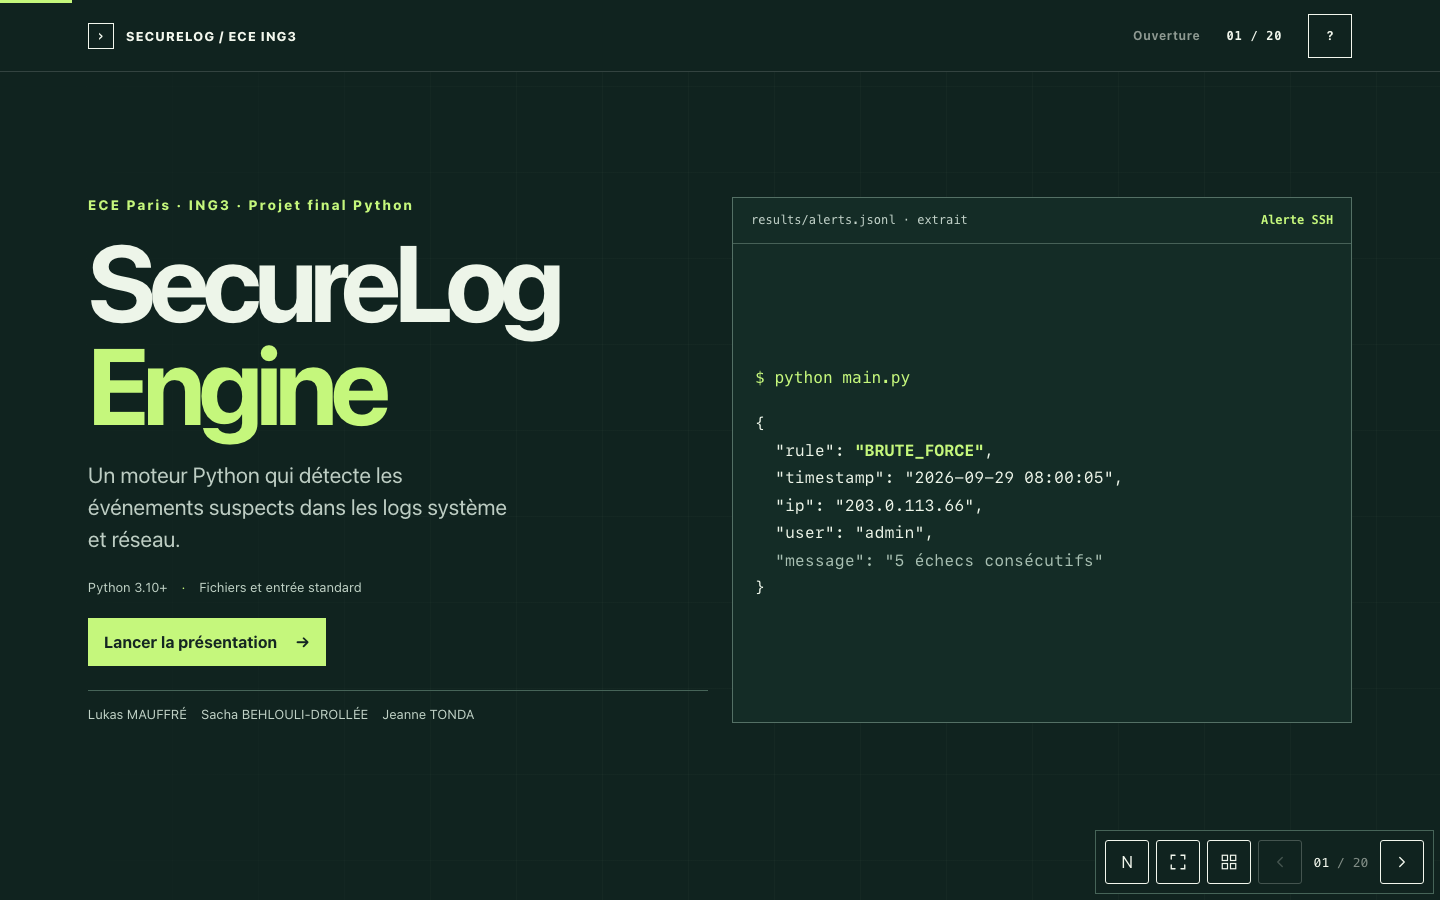
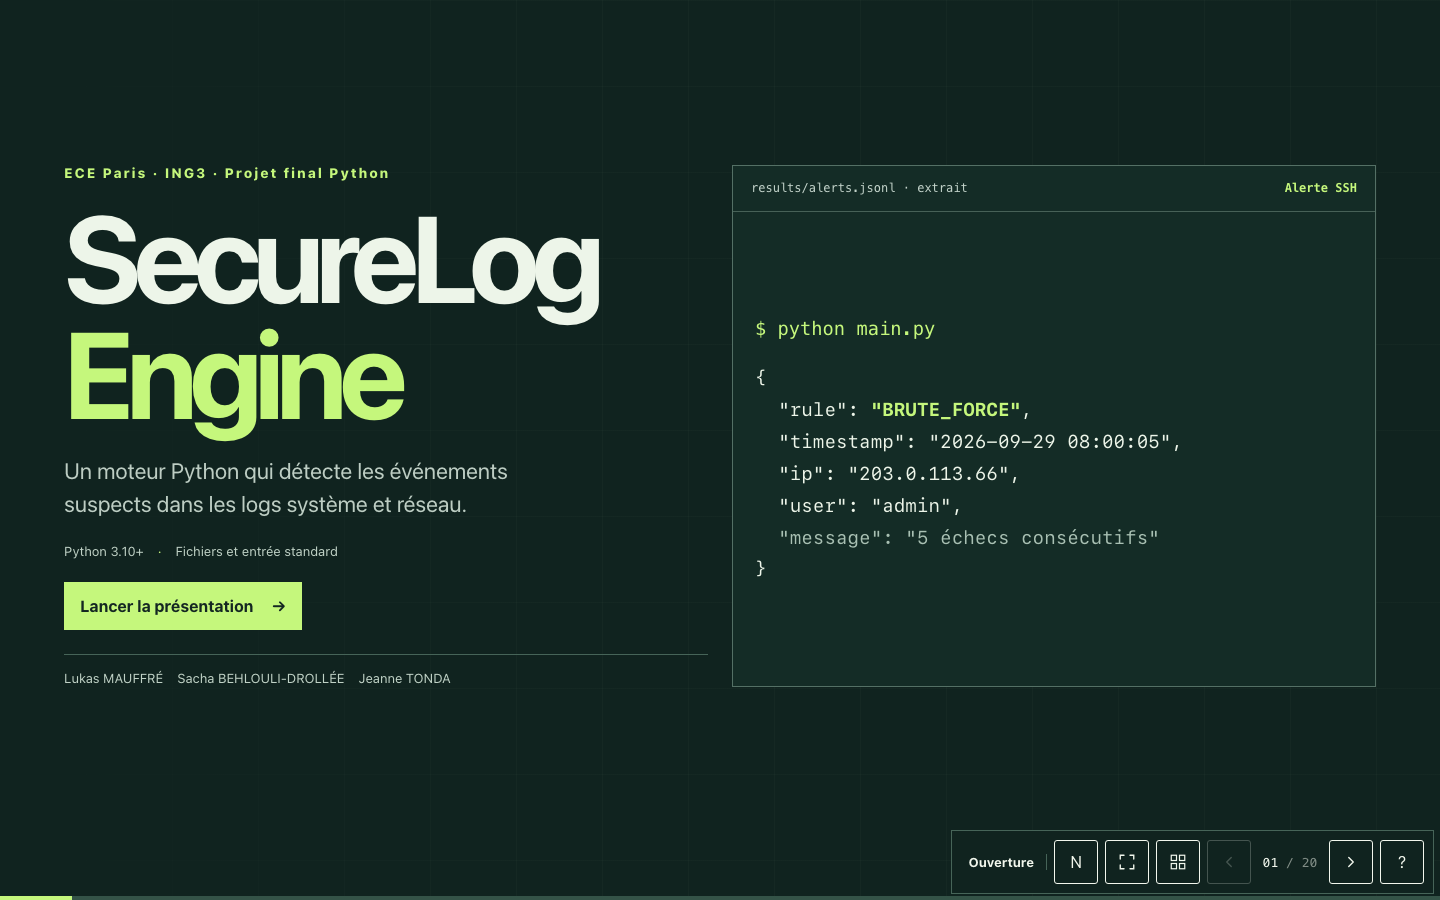
style: scale slide content for projection

diff --git a/index.html b/index.html
@@ -6,7 +6,7 @@
 <title>SecureLog Engine · Présentation ING3</title>
 <script>document.documentElement.classList.add('m-enter');</script>
 <style>
-:root{--paper:#f3f4ef;--ink:#142622;--muted:#52665c;--line:#cbd5cc;--surface:#e5ece4;--night:#10231f;--panel:#142c26;--lime:#c5f77c;--lime-deep:#497230;--danger:#dc674c;--blue:#5488a0;--gold:#d5a34b;--orange:#e18c68;--dock-clearance:84px;--gutter:clamp(30px,6.1vw,104px);--curve:cubic-bezier(.2,.8,.2,1)}
+:root{--paper:#f3f4ef;--ink:#142622;--muted:#52665c;--line:#cbd5cc;--surface:#e5ece4;--night:#10231f;--panel:#142c26;--lime:#c5f77c;--lime-deep:#497230;--danger:#dc674c;--blue:#5488a0;--gold:#d5a34b;--orange:#e18c68;--dock-clearance:84px;--gutter:clamp(30px,4.45vw,72px);--curve:cubic-bezier(.2,.8,.2,1)}
 *{box-sizing:border-box} html,body{height:100%;margin:0} html{scroll-behavior:auto} body{font-family:-apple-system,BlinkMacSystemFont,"Helvetica Neue",Arial,sans-serif;color:var(--ink);background:var(--paper);overflow:hidden; -webkit-font-smoothing:antialiased}button,a{font:inherit} button{cursor:pointer} a{color:inherit} code,pre,.mono{font-family:ui-monospace,SFMono-Regular,Menlo,Monaco,Consolas,monospace} .app{height:100vh;height:100dvh;position:relative;overflow:hidden}
 .progress {
   position: fixed;
@@ -204,27 +204,28 @@
 .challenge .solution,.roadmap-layout span,.output-card pre,.result-terminal pre{font-size:clamp(13px,1.04vw,16px)}
 .demo-terminal{font-size:clamp(12px,1.05vw,15px);line-height:1.72}
 .demo-count,.demo-alert-block p,.demo-head{font-size:clamp(13px,1vw,15px)}
-.demo-alert-block>span ,
+.demo-alert-block>span{font-size:12px}
 .closing-lower p{font-size:15px}
-/* Panels follow their content instead of stretching to occupy the whole slide. */
-@media(min-width:1000px){
- .two-mode,.pipeline,.arch-layout,.func-columns,.rules-stage,.brute-panel,.result-layout,.output-grid,.memory-layout,.challenge-grid,.roadmap-layout{flex:0 1 auto}
- .arch-layout{max-height:460px}
- .two-mode{max-height:465px}
- .mode-icon{height:88px}
- .mode-card{padding:clamp(24px,2.65vw,38px)}
- .func-columns{max-height:425px}
- .func-code{min-height:158px;margin:22px 0 15px}
- .rules-stage{max-height:450px}
- .brute-panel{max-height:340px;min-height:315px}
- .identity-row{padding:16px 0}
- .result-layout{max-height:365px}
- .output-grid{max-height:445px}
- .output-card p{min-height:72px}
- .memory-layout{max-height:465px}
- .challenge-grid{max-height:445px}
- .roadmap-layout{max-height:440px}
- .limitations>div:not(:first-child),.improvements>div:not(:first-child){flex:none;padding:12px 0}
+/* Use the height recovered from the header for the diagrams and examples. */
+@media (min-width: 1000px) {
+  .two-mode, .pipeline, .arch-layout, .func-columns, .rules-stage,
+  .brute-panel, .result-layout, .output-grid, .memory-layout,
+  .challenge-grid, .roadmap-layout {
+    flex: 1 0 auto;
+    max-height: min(56vh, 540px);
+  }
+  .pipeline { max-height: min(46vh, 420px); }
+  .mode-icon { height: 88px; }
+  .mode-card { padding: clamp(24px, 2.65vw, 38px); }
+  .mode-card p, .func-card p { font-size: clamp(17px, 1.4vw, 21px); }
+  .func-code { min-height: 158px; margin: 22px 0 15px; }
+  .identity-row { padding: 16px 0; }
+  .brute-panel { max-height: min(48vh, 430px); }
+  .output-card p { min-height: 72px; }
+  .limitations > div:not(:first-child), .improvements > div:not(:first-child) {
+    flex: 1;
+    padding: 12px 0;
+  }
 }
 /* Terminal replay layout and motion. */
 .demo-stage{flex:0 1 auto}
@@ -274,28 +275,34 @@
    when the browser targets a slide hash on a narrow display. Each slide
    itself remains vertically scrollable. */
 .app { overflow: clip; }
-/* Keep the original single palette and grid, but allow a second optical
-   rhythm for slides with short content. Auto margins distribute only truly
-   available space. When a screen is short, they collapse to zero so nothing
-   is cut off from the top. */
-@media (min-width: 1000px) {
-  :is(#slide-3,#slide-4,#slide-5,#slide-8,#slide-11,#slide-12,#slide-13,#slide-14,#slide-15,#slide-17,#slide-18,#slide-19)
-    .slide-inner > :first-child:not(.notes-text) { margin-top: auto; }
-  :is(#slide-3,#slide-4,#slide-5,#slide-8,#slide-11,#slide-12,#slide-13,#slide-14,#slide-15,#slide-17,#slide-18,#slide-19)
-    .slide-inner > :nth-last-child(2) { margin-bottom: auto; }
-}
-/* The code / process sequence gains enough substance to sit comfortably,
-   without filling the full height of a slide. Code stays readable at rest. */
-@media (min-width: 1200px) and (min-height: 780px) {
-  #slide-8 .func-columns { min-height: 352px; max-height: 365px; }
-  #slide-8 .func-card { padding: 25px 25px 23px; }
-  #slide-8 .func-code { margin: 20px 0 14px; padding: 18px 17px; }
-  #slide-8 .func-card p { font-size: 17px; line-height: 1.52; }
-  #slide-11 .rules-stage { min-height: 352px; max-height: 385px; }
-  #slide-14 .result-layout { min-height: 346px; max-height: 376px; }
-  #slide-19 .limitations > div:not(:first-child),
-  #slide-19 .improvements > div:not(:first-child) { padding: 15px 0; }
-  #slide-19 .roadmap-layout span { font-size: 16px; line-height: 1.45; }
+/* Use larger type and illustrations on projection screens with room to spare. */
+@media (min-width: 1100px) and (min-height: 780px) {
+  .cover-title { font-size: clamp(94px, 8.5vw, 160px); }
+  .term-content { font-size: clamp(16px, 1.3vw, 22px); }
+  .filetree, .syntax, .format-box pre, .func-code, .output-card pre,
+  .result-terminal pre, .demo-terminal { font-size: clamp(16px, 1.2vw, 21px); }
+  .module-list b, .rules-grid b, .test-matrix b { font-size: clamp(19px, 1.55vw, 25px); }
+  .module-list p, .rules-grid p, .test-matrix small { font-size: clamp(15px, 1.18vw, 20px); }
+  .pipe-step { padding: clamp(18px, 1.8vw, 28px); }
+  .pipe-step h3 { font-size: clamp(25px, 2.5vw, 38px); }
+  .pipe-step p { font-size: clamp(16px, 1.25vw, 20px); }
+  .format-box, .structure-box { flex: 1; align-content: center; }
+  .chart-panel { padding: 36px; }
+  .bar-row { margin-block: 28px; }
+  .bar-row > div { height: 24px; }
+  .venn-container svg { max-height: 390px; }
+  .loop-footer span, .roadmap-layout span { font-size: clamp(15px, 1.18vw, 20px); }
+  .mem-columns { min-height: 245px; }
+  .slide .intro, .slide .lead { font-size: clamp(19px, 1.55vw, 26px); }
+  .slide .cover-copy .lead { max-width: 34ch; }
+  .slide .command, .slide .pipe-file { font-size: clamp(15px, 1.15vw, 19px); }
+  .func-code { flex: 1; align-content: center; }
+  .identity-row { flex: 1; }
+  .ident-user, .attempts > span { font-size: 27px; }
+  .attempts > span { width: 58px; height: 58px; }
+  .result-bar { margin-block: 26px; }
+  .result-bar label { font-size: 16px; }
+  .validation-layout .mega-test { margin-top: 18px; }
 }
 /* Projection legibility: keep the smaller *content* type clear; do not grow
    the main headlines so much they overwhelm the evidence on the slide. */
@@ -334,15 +341,6 @@
   #slide-20 .closing-lower { margin-top: 25px; padding-top: 16px; }
   #slide-20 .closing-bottom { margin-top: 21px; }
 }
-@media print {
-  /* Print renders full slides even though in the live experience the overall
-     group is optically centered. Disable auto margins for deterministic PDF. */
-  :is(#slide-3,#slide-4,#slide-5,#slide-8,#slide-11,#slide-12,#slide-13,#slide-14,#slide-15,#slide-17,#slide-18,#slide-19)
-    .slide-inner > :first-child:not(.notes-text) { margin-top: 0; }
-  :is(#slide-3,#slide-4,#slide-5,#slide-8,#slide-11,#slide-12,#slide-13,#slide-14,#slide-15,#slide-17,#slide-18,#slide-19)
-    .slide-inner > :nth-last-child(2) { margin-bottom: 0; }
-}
-
 /* Shared deck controls and responsive cover. */
 .skip-link {
   position: fixed;
@@ -369,7 +367,7 @@
 .navbar { background: var(--paper); }
 .dark-context .navbar { background: var(--night); }
 .dark-context .navbar { border-color: #466458; }
-.slide-inner { max-width: 1320px; }
+.slide-inner { max-width: 1600px; }
 :where(.cover-grid, .split, .arch-layout, .stats-layout, .demo-body, .rules-stage) > * { min-width: 0; }
 :where(pre, .dictionary) { overflow-wrap: anywhere; }
 @media (hover: hover) and (pointer: fine) {
@@ -395,7 +393,7 @@ html[data-motion] :is(.primary-action, button:not(:disabled)):active { transform
   .term-content .command-line { margin-bottom: 8px; }
 }
 @media (max-width: 560px) {
-  :root { --dock-clearance: 130px; }
+  :root { --dock-clearance: 120px; }
   .navbar {
     grid-template-areas: "chapter help" "actions actions";
     grid-template-columns: 1fr auto;
@@ -440,6 +438,11 @@ html[data-motion] :is(.primary-action, button:not(:disabled)):active { transform
 }
 @media print {
   .skip-link, .primary-action { display: none; }
+}
+
+@media (min-width: 1000px) {
+  .demo-stage { flex: 1 0 auto; max-height: min(58vh, 545px); }
+  .demo-stage .demo-terminal { max-height: none; }
 }
 
 /* Presenter-led replay, with a readable static summary for print. */
@@ -542,8 +545,9 @@ html[data-motion] :is(.primary-action, button:not(:disabled)):active { transform
 <body class="app" id="top">
 <!-- Soutenance logiciel : vert terminal, typographie système, grille scindée.
      Moments guidés : trajet d’un log et révélation de l’alerte, sans lecture automatique. -->
+<main id="deck" tabindex="-1">
 <a class="skip-link" href="#deck">Aller à la diapositive</a>
-<main id="deck" tabindex="-1"><section class="slide hero dark is-active" id="slide-1" data-enter data-title="SecureLog Engine" data-chapter="Ouverture" aria-label="Diapositive 1: SecureLog Engine"><div class="slide-inner wrap">
+<section class="slide hero dark is-active" id="slide-1" data-enter data-title="SecureLog Engine" data-chapter="Ouverture" aria-label="Diapositive 1: SecureLog Engine"><div class="slide-inner wrap">
 <div class="cover-grid hero-text grid">
   <div class="cover-copy hero__text">
     <p class="eyebrow">ECE Paris · ING3 · Projet final Python</p>
@@ -802,10 +806,11 @@ Alertes : BLACKLIST 12
 <div class="notes-text" hidden>Terminez sur les compétences Python démontrées et la différence entre ce moteur pédagogique et une plateforme de surveillance complète. Les livrables demandés sont bien ceux de l’énoncé. Invitez aux questions.</div></div></section></main>
 <nav class="navbar actionbar" aria-label="Navigation des diapositives">
   <span class="nav-chapter" id="nav-chapter">Ouverture</span>
-  <button class="nav-btn" id="help-trigger" type="button" aria-haspopup="dialog" aria-controls="help" aria-label="Afficher les raccourcis">?</button>
   <div class="progress" id="progress" aria-hidden="true"></div>
   <span class="sr-only" id="slide-announcement" role="status"></span>
-  <div class="nav-actions"><button class="nav-btn" id="notes-trigger" type="button" aria-expanded="false" aria-controls="speaker-notes" title="Notes du présentateur" aria-label="Notes du présentateur">N</button><button class="nav-btn" id="fullscreen-trigger" type="button" aria-pressed="false" title="Plein écran" aria-label="Basculer en plein écran"><svg viewBox="0 0 24 24" fill="none" stroke="currentColor" stroke-width="1.8" stroke-linecap="round" aria-hidden="true"><path d="M8 3H3v5M16 3h5v5M3 16v5h5M21 16v5h-5"/></svg></button><button class="nav-btn" id="overview-trigger" type="button" aria-haspopup="dialog" aria-controls="overview" title="Sommaire" aria-label="Sommaire"><svg viewBox="0 0 24 24" fill="none" stroke="currentColor" stroke-width="1.6" aria-hidden="true"><rect x="3" y="3" width="7" height="7"/><rect x="14" y="3" width="7" height="7"/><rect x="3" y="14" width="7" height="7"/><rect x="14" y="14" width="7" height="7"/></svg></button><button class="nav-btn" id="prev" type="button" title="Diapositive précédente" aria-label="Précédente"><svg viewBox="0 0 24 24" fill="none" stroke="currentColor" stroke-width="1.8" stroke-linecap="round" stroke-linejoin="round" aria-hidden="true"><path d="m15 18-6-6 6-6"/></svg></button><span class="nav-current" id="nav-current">01 <span>/ 20</span></span><button class="nav-btn" id="next" type="button" title="Diapositive suivante" aria-label="Suivante"><svg viewBox="0 0 24 24" fill="none" stroke="currentColor" stroke-width="1.8" stroke-linecap="round" stroke-linejoin="round" aria-hidden="true"><path d="m9 18 6-6-6-6"/></svg></button></div></nav>
+  <div class="nav-actions"><button class="nav-btn" id="notes-trigger" type="button" aria-expanded="false" aria-controls="speaker-notes" title="Notes du présentateur" aria-label="Notes du présentateur">N</button><button class="nav-btn" id="fullscreen-trigger" type="button" aria-pressed="false" title="Plein écran" aria-label="Basculer en plein écran"><svg viewBox="0 0 24 24" fill="none" stroke="currentColor" stroke-width="1.8" stroke-linecap="round" aria-hidden="true"><path d="M8 3H3v5M16 3h5v5M3 16v5h5M21 16v5h-5"/></svg></button><button class="nav-btn" id="overview-trigger" type="button" aria-haspopup="dialog" aria-controls="overview" title="Sommaire" aria-label="Sommaire"><svg viewBox="0 0 24 24" fill="none" stroke="currentColor" stroke-width="1.6" aria-hidden="true"><rect x="3" y="3" width="7" height="7"/><rect x="14" y="3" width="7" height="7"/><rect x="3" y="14" width="7" height="7"/><rect x="14" y="14" width="7" height="7"/></svg></button><button class="nav-btn" id="prev" type="button" title="Diapositive précédente" aria-label="Précédente"><svg viewBox="0 0 24 24" fill="none" stroke="currentColor" stroke-width="1.8" stroke-linecap="round" stroke-linejoin="round" aria-hidden="true"><path d="m15 18-6-6 6-6"/></svg></button><span class="nav-current" id="nav-current">01 <span>/ 20</span></span><button class="nav-btn" id="next" type="button" title="Diapositive suivante" aria-label="Suivante"><svg viewBox="0 0 24 24" fill="none" stroke="currentColor" stroke-width="1.8" stroke-linecap="round" stroke-linejoin="round" aria-hidden="true"><path d="m9 18 6-6-6-6"/></svg></button></div>
+  <button class="nav-btn" id="help-trigger" type="button" aria-haspopup="dialog" aria-controls="help" aria-label="Afficher les raccourcis">?</button>
+</nav>
 <dialog class="overview" id="overview" aria-labelledby="overview-heading"><div class="overlay-header"><h2 id="overview-heading">Sommaire des 20 diapositives</h2><button type="button" class="overlay-close" id="overview-close">Fermer ×</button></div><div class="overview-grid" id="overview-grid"></div></dialog>
 <dialog class="help" id="help" aria-labelledby="help-heading"><div class="help-card"><h2 id="help-heading">Commandes de présentation</h2><div class="shortcut-row"><span>Étape suivante ou diapositive suivante</span><span><kbd>→</kbd> <kbd>↓</kbd> <kbd>Espace</kbd></span></div><div class="shortcut-row"><span>Étape précédente ou diapositive précédente</span><span><kbd>←</kbd> <kbd>↑</kbd></span></div><div class="shortcut-row"><span>Recommencer la démo (slide 13)</span><kbd>R</kbd></div><div class="shortcut-row"><span>Ouvrir les 20 slides</span><kbd>O</kbd></div><div class="shortcut-row"><span>Notes orateur</span><kbd>N</kbd></div><div class="shortcut-row"><span>Plein écran</span><kbd>F</kbd></div><div class="shortcut-row"><span>Fermer les fenêtres</span><kbd>Esc</kbd></div><button type="button" class="help-close" id="help-close">Retour à la présentation</button></div></dialog>
 <div class="speaker-notes" id="speaker-notes" role="complementary" aria-label="Notes orateur"><small>NOTES DE PRÉSENTATION · APPUYEZ SUR N</small><p></p></div>

diff --git a/VALIDATION.md b/VALIDATION.md
@@ -21,11 +21,12 @@ Les dérogations du contrôle officiel tiennent au format de la soutenance.
 - `moment-none` — Les deux animations du diaporama sont intégrées au fichier et
   se déclenchent à la navigation ou pendant le rejeu. Le contrôle détecte les
   modules d’animation du kit.
-- `container-edges` — Le trait de progression de 3 px traverse la largeur de
-  l’écran à la fin du diaporama. Le logo et les commandes de l’en-tête suivent
-  la grille.
+- `container-edges` — La piste de progression de 4 px traverse le bas de
+  l’écran. Le contenu de chaque diapositive suit sa grille.
 - `container-edges` — La barre de navigation flottante suit le bord droit
   de la fenêtre, avec 6 px de retrait en plus de la zone de sécurité éventuelle.
+- `one-section` — Le lien d’accès clavier précède les diapositives dans le
+  conteneur principal et reste disponible à chaque étape.
 
 ## Vérifications
 
@@ -64,3 +65,15 @@ La barre est à 6 px des bords droit et inférieur hors zone de sécurité.
 Chrome a vérifié les diapositives 3, 12, 13, 15 et 16 aux sept formats de
 projection, tablette et mobile indiqués ci-dessus. Les boutons conservent
 une cible de 44 px et le bouton Suivante déroule le rejeu.
+
+## Rendu pour la projection
+
+Le chapitre, le compteur et l’aide rejoignent les commandes en bas à droite.
+La progression occupe toute la largeur au bas de la fenêtre. Sur téléphone,
+la barre passe sur deux rangées pour conserver les cibles de 44 px.
+
+Les 20 diapositives ont été parcourues dans Chrome sur huit formats de 320 px
+au plein écran 1920×1080. La surface libérée en haut, les marges latérales
+réduites et les blocs techniques agrandis donnent davantage de place au texte,
+aux graphiques et au code. La navigation au clavier, l’aide, les notes et les
+huit étapes du rejeu ont été vérifiées.
